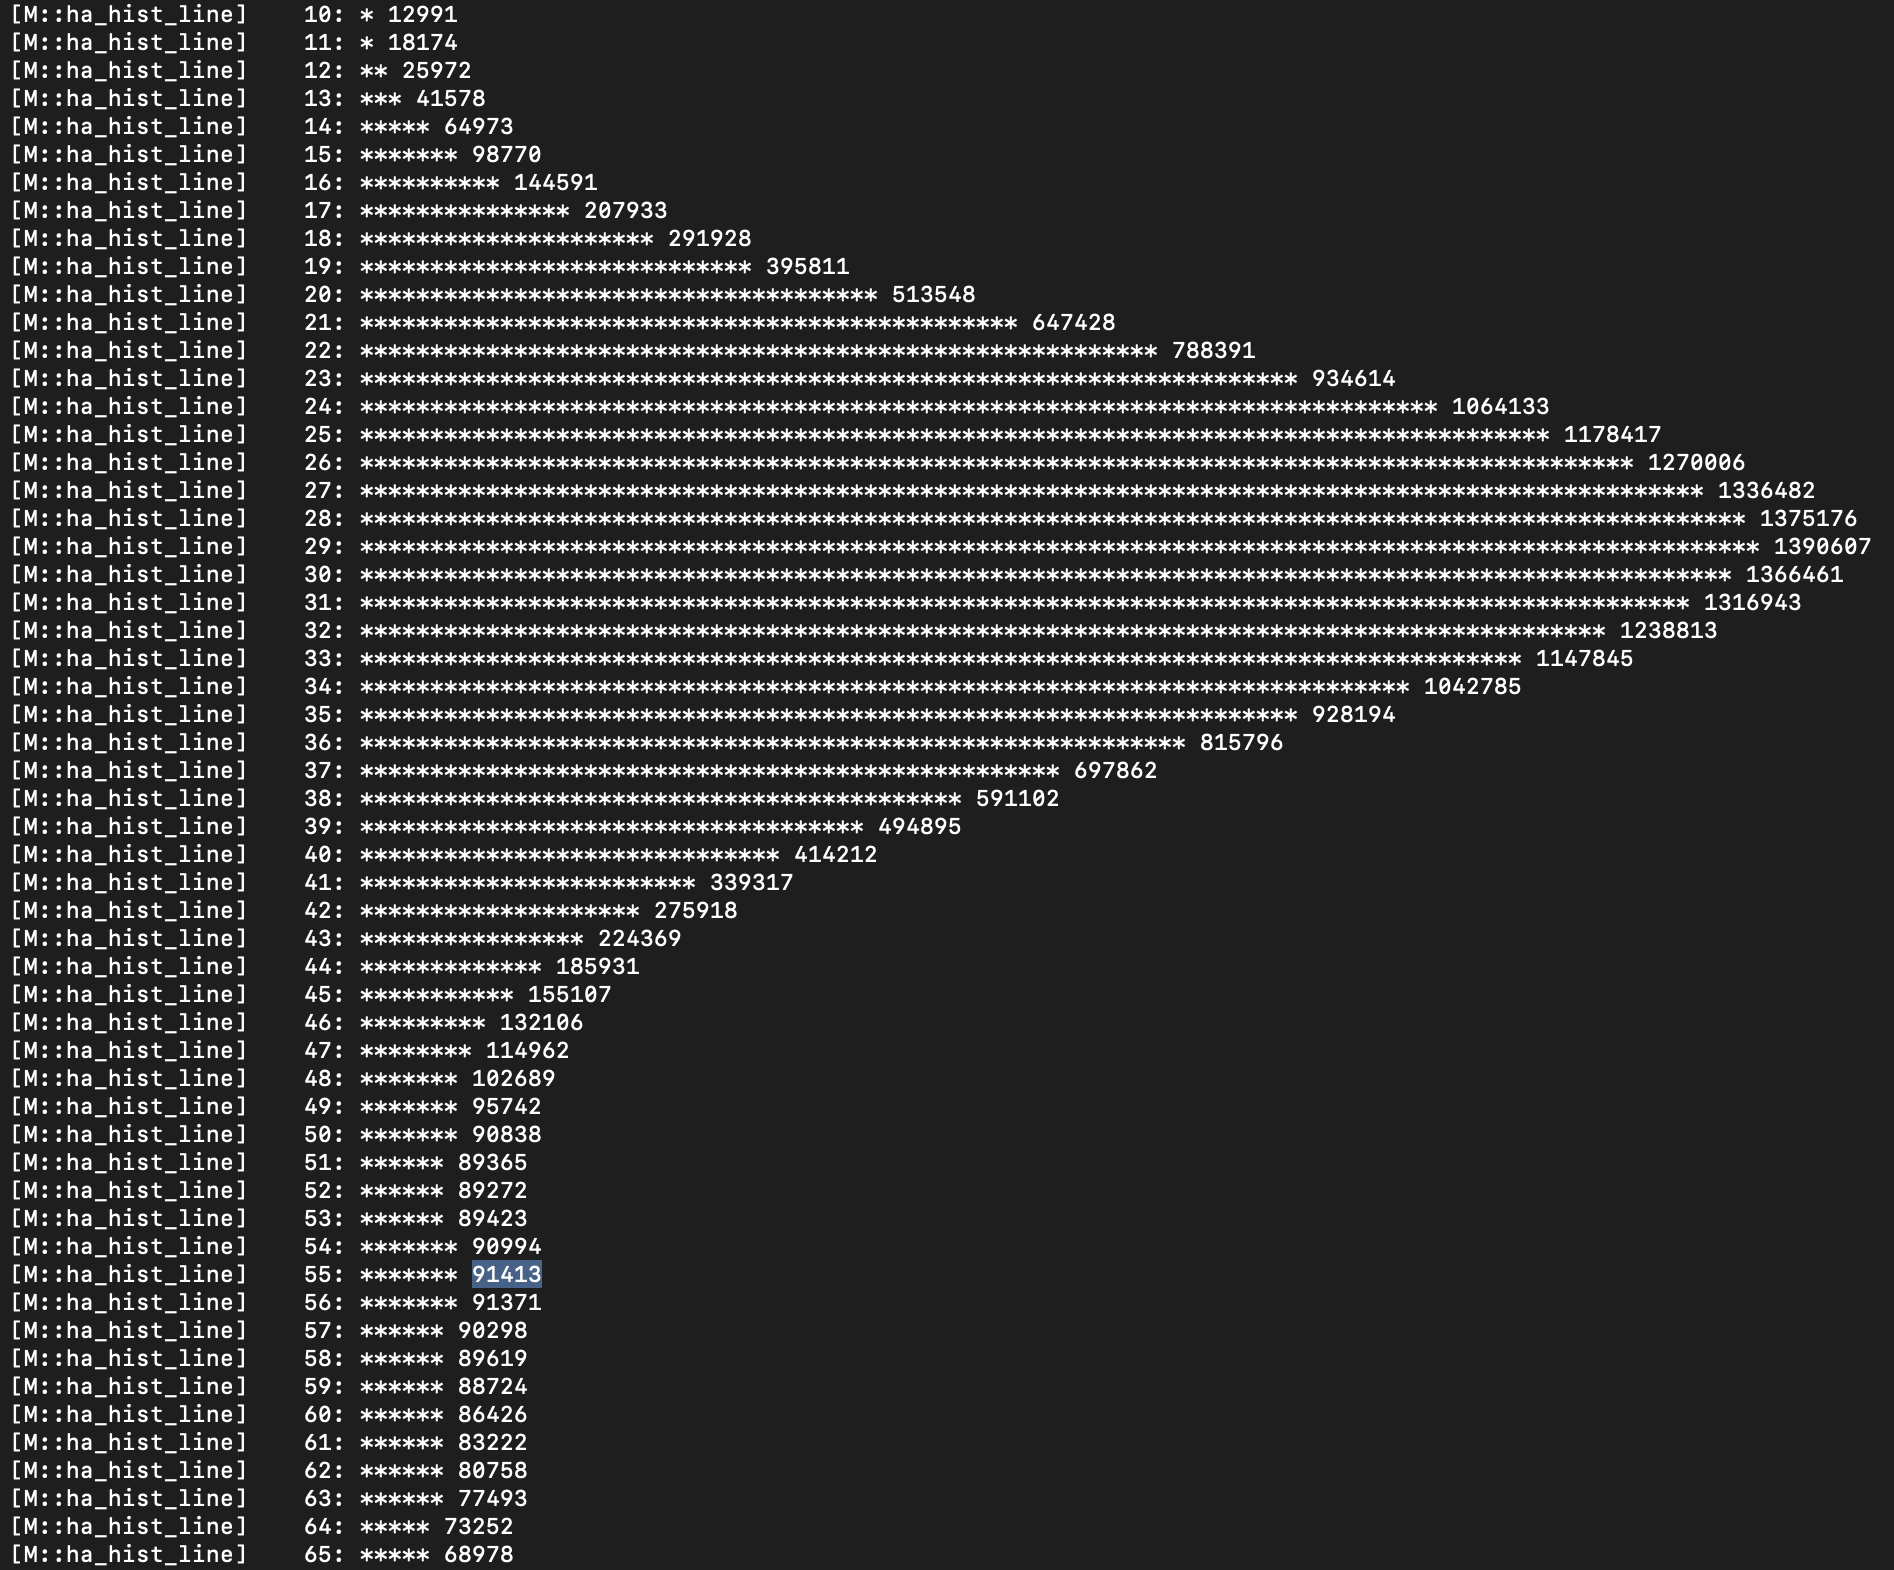
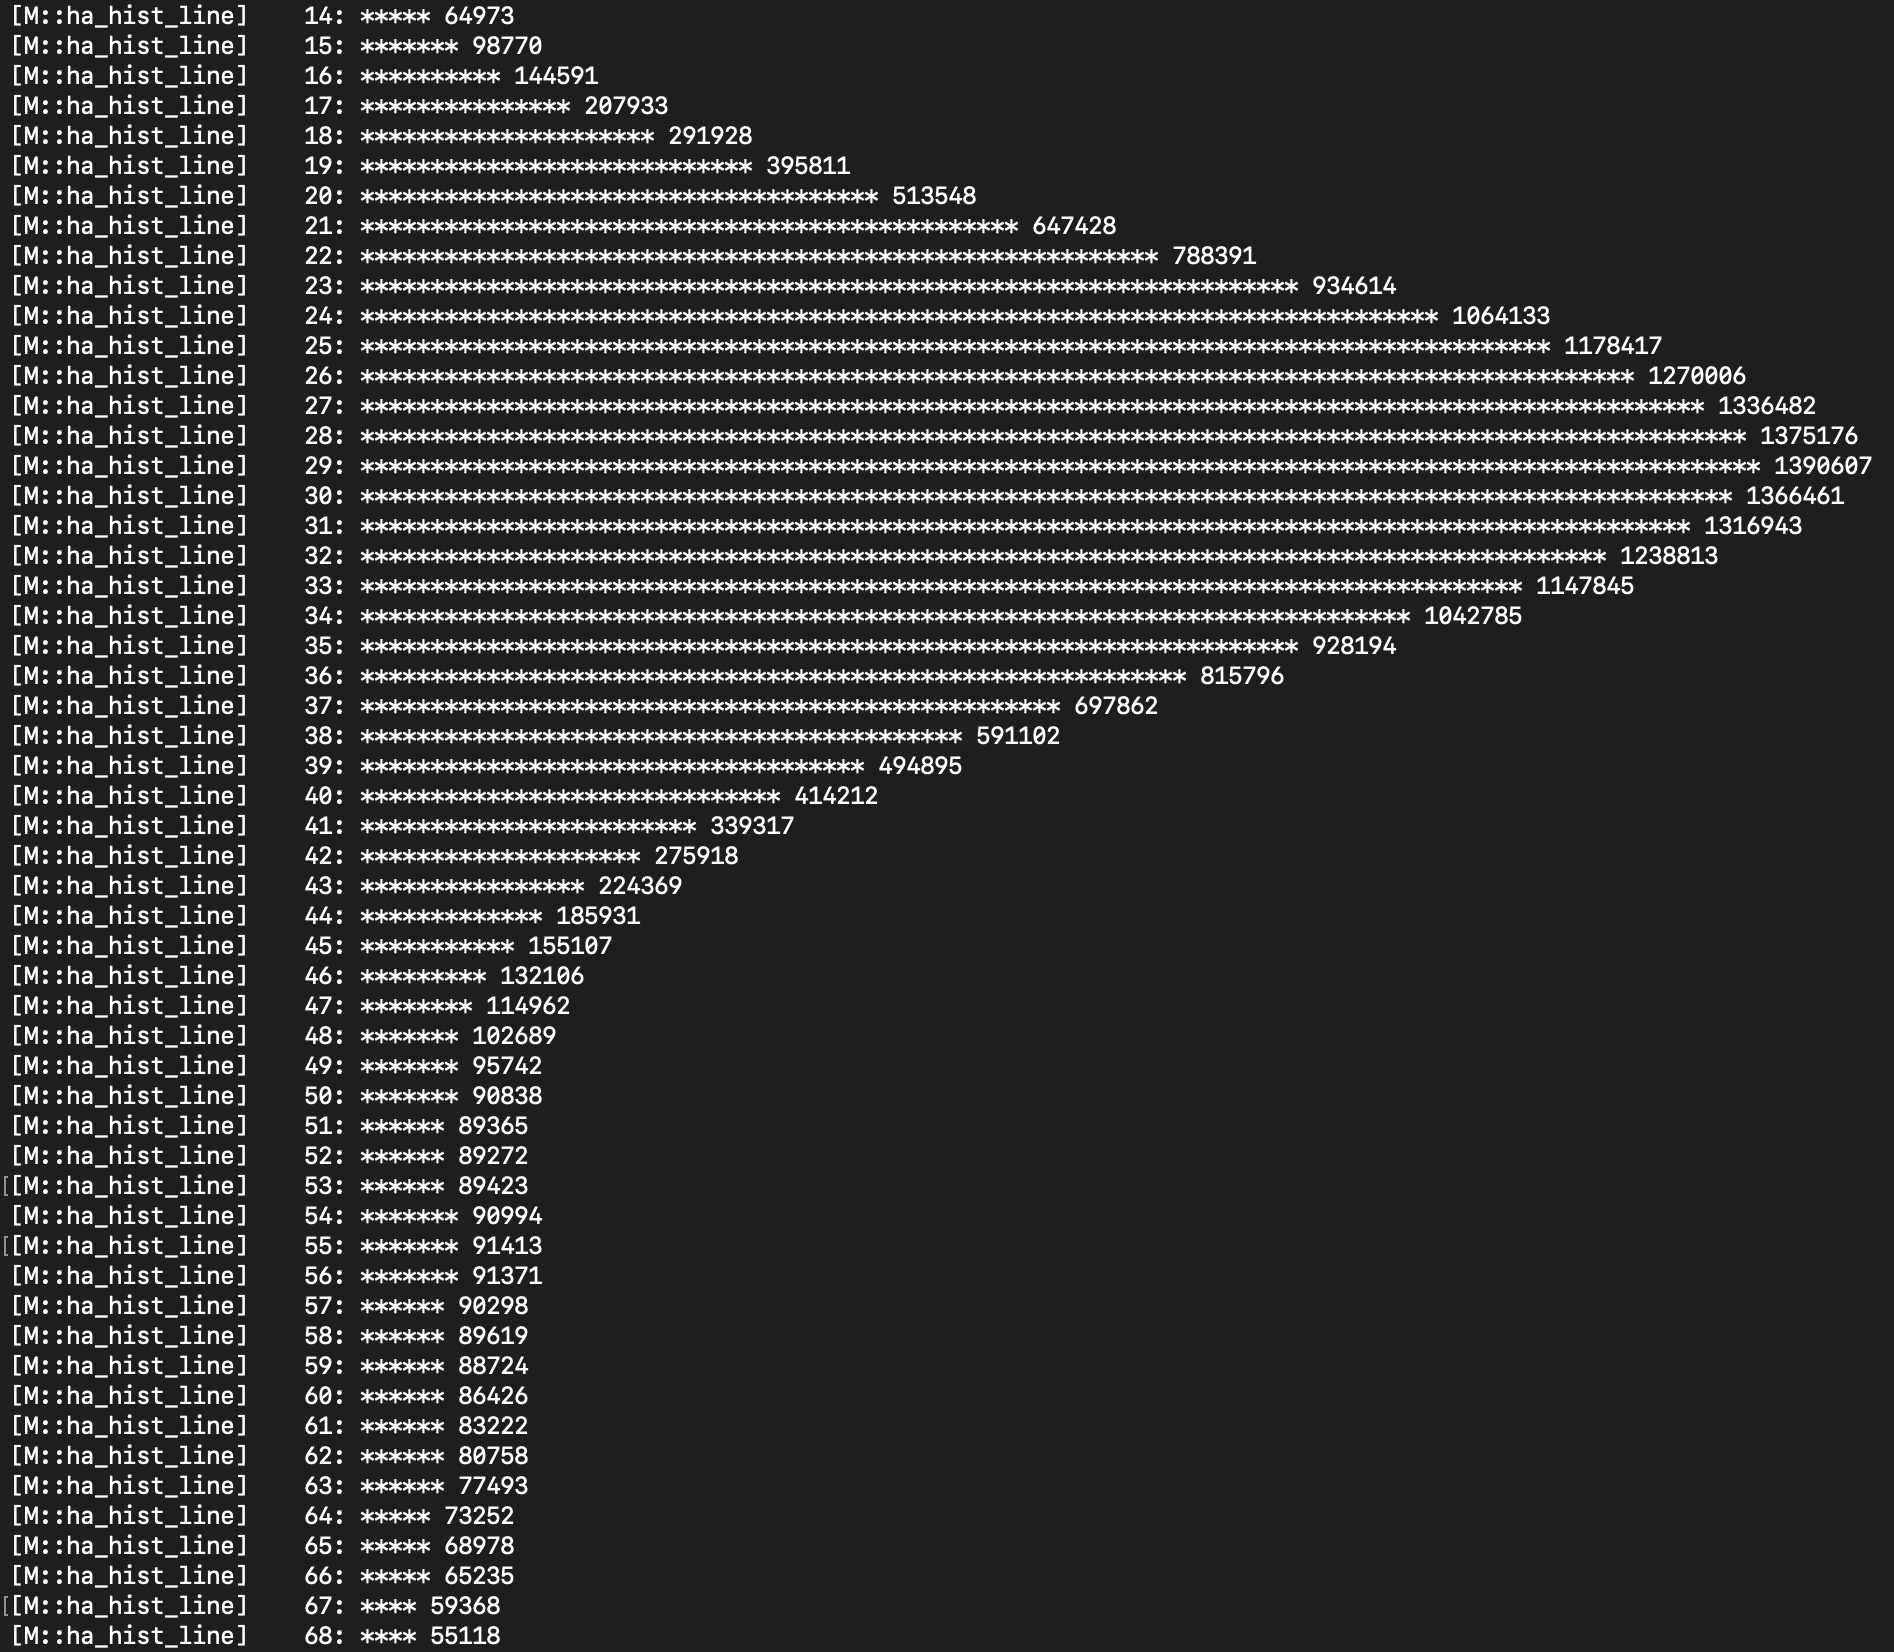
Add Hifiasm trials

Changed region(s): [[0.1558, 0.0, 0.9968, 0.9987], [0.0, 0.0, 0.1246, 0.9987]]

diff --git a/README.md b/README.md
@@ -12,13 +12,14 @@ This branch is purposed to: (i) summarise the findings from the other two branch
     - <a href="#03a">Using default parameters</a>
     - <a href="#03b">Adding the estimated genome size</a>
     - <a href="#03c">Estimating the peak homozygous coverage</a>
+    - <a href="#03d">Rerunning with `--hom-cov 56`</a>
 
 ## <a id="01">Prerequisites</a>
 This analysis requires a number of software and R packages to run. Here, I am going to install them using `conda`:
 ```
 conda create -n meelupmallee
 conda activate meelupmallee
-conda install -c conda-forge -c bioconda chopper genomescope2 hifiasm kmc kraken2 nanoplot
+conda install -c conda-forge -c bioconda chopper compleasm genomescope2 hifiasm kmc kraken2 mosdepth nanoplot
 ```
 
 > [!NOTE]
@@ -159,6 +160,68 @@ hifiasm \
 The homozygous read coverage threshold is now **63** (i.e., total read length / estimated genome size), while the peak heterozygous coverage is still **29**. It seems that we need a more objective way to set the threshold...
 
 ### <a id="03c">Estimating the peak homozygous coverage</a>
+To empirically set the homozygous peak coverage, I calculated the median BUSCO coverage across the two haplotypes. First, I concatenated the two haplotypes inferred from the default run and remapped the filtered ONT reads.
+```
+# change the working directory
+cd 02_assembly/default/
+
+# convert GFA to FASTA format
+awk '/^S/{print ">"$2; print $3}' E_phylacis_asm.bp.hap1.p_ctg.gfa > hap1.fa
+awk '/^S/{print ">"$2; print $3}' E_phylacis_asm.bp.hap2.p_ctg.gfa > hap2.fa
+
+# concatenate both haplotypes
+cat hap1.fa hap2.fa > both_haps.fa
+
+# map the filtered ONT reads to both haplotypes
+minimap2 \
+    -t 128 \
+    -ax lr:hq both_haps.fa \
+    ../../01_qc/02_chopper/E_phylacis_filtered.fastq.gz | \
+    samtools sort -@16 -o both_haps.bam
+samtools index both_haps.bam
+```
+
+I then ran compleasm on each haplotype, extracted single-copy BUSCO, and calculated the depth statistics across loci.
+```
+# download the ODB database
+compleasm download eudicotyledons --odb odb12 -L busco_lineages/
+
+# run compleasm on each haplotype
+compleasm run -a hap1.fa -o compleasm/compleasm_hap1 -l eudicotyledons --odb odb12 -t 128 -L busco_lineages/
+compleasm run -a hap2.fa -o compleasm/compleasm_hap2 -l eudicotyledons --odb odb12 -t 128 -L busco_lineages/
+
+# extract all single-copy BUSCO
+for h in hap1 hap2; do
+  awk -F'\t' 'NR>1 && $2=="Single"{print $3"\t"$4-1"\t"$5"\t"$1}' compleasm/compleasm_$h/eudicotyledons_odb12/full_table.tsv
+done | sort -k1,1 -k2,2n > compleasm/busco_single.bed
+
+# calculate the depth across BUSCO
+mosdepth -t 16 --by compleasm/busco_single.bed --no-per-base compleasm/busco both_haps.bam
+
+# extract the Q1, Q2, and Q3 depth across BUSCO
+zcat compleasm/busco.regions.bed.gz | \
+    cut -f5 | sort -n | \
+    awk '{a[NR]=$1} END{printf "n=%d  Q1=%.1f  median=%.1f  Q3=%.1f\n", NR, a[int(NR*0.25)], a[int(NR*0.5)], a[int(NR*0.75)]}'
+
+# change the working directory
+cd ../..
+```
+
+This command prints the following: `n=5173  Q1=23.6  median=27.9  Q3=32.2`. The median closely matches the heterozygosity peak from Hifiasm (see <a href="#03a">above</a>). Thus, we should redo the Hifiasm run with `--hom-cov 56`.
+
+### <a id="03d">Rerunning with `--hom-cov 56`</a>
+```
+hifiasm \
+    -o 02_assembly/final/E_phylacis_asm \
+    -t 128 \
+    --ont \
+    -l 3 \
+    --telo-m AAACCCT \
+    --hom-cov 56 \
+    --dual-scaf \
+    01_qc/02_chopper/E_phylacis_filtered.fastq.gz \
+    2>&1 | tee 02_assembly/final/hifiasm_restart.log
+```
 
 ---
 *Last update: 02 November 2026 by Jeremias Ivan*
